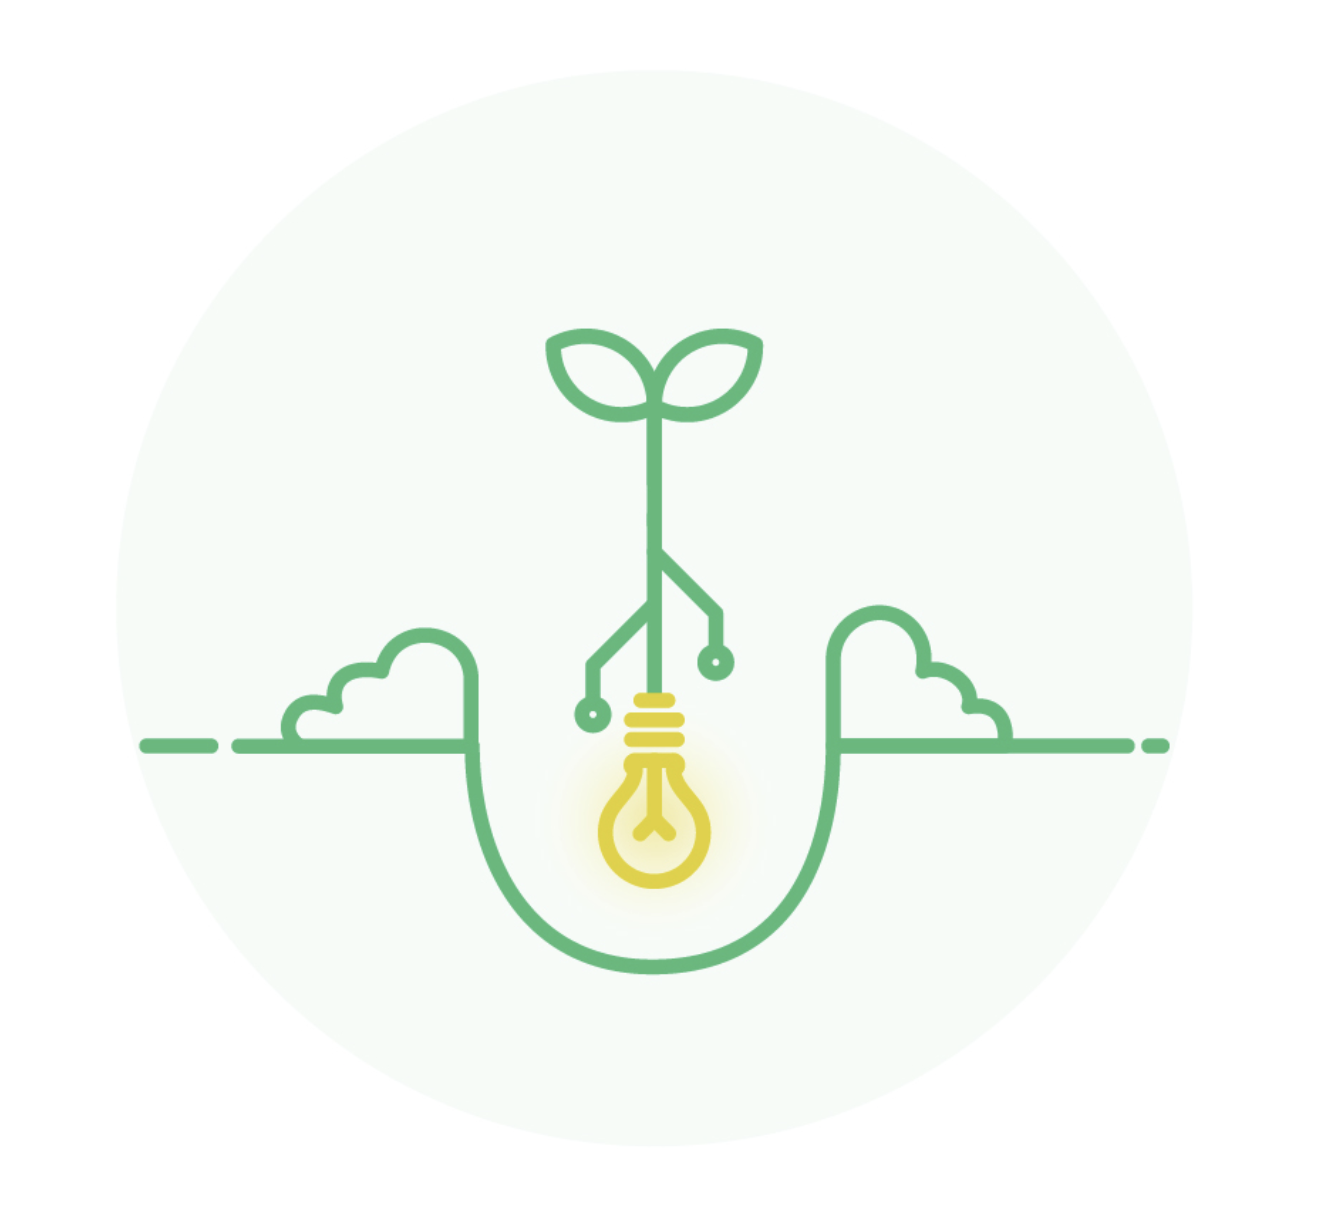
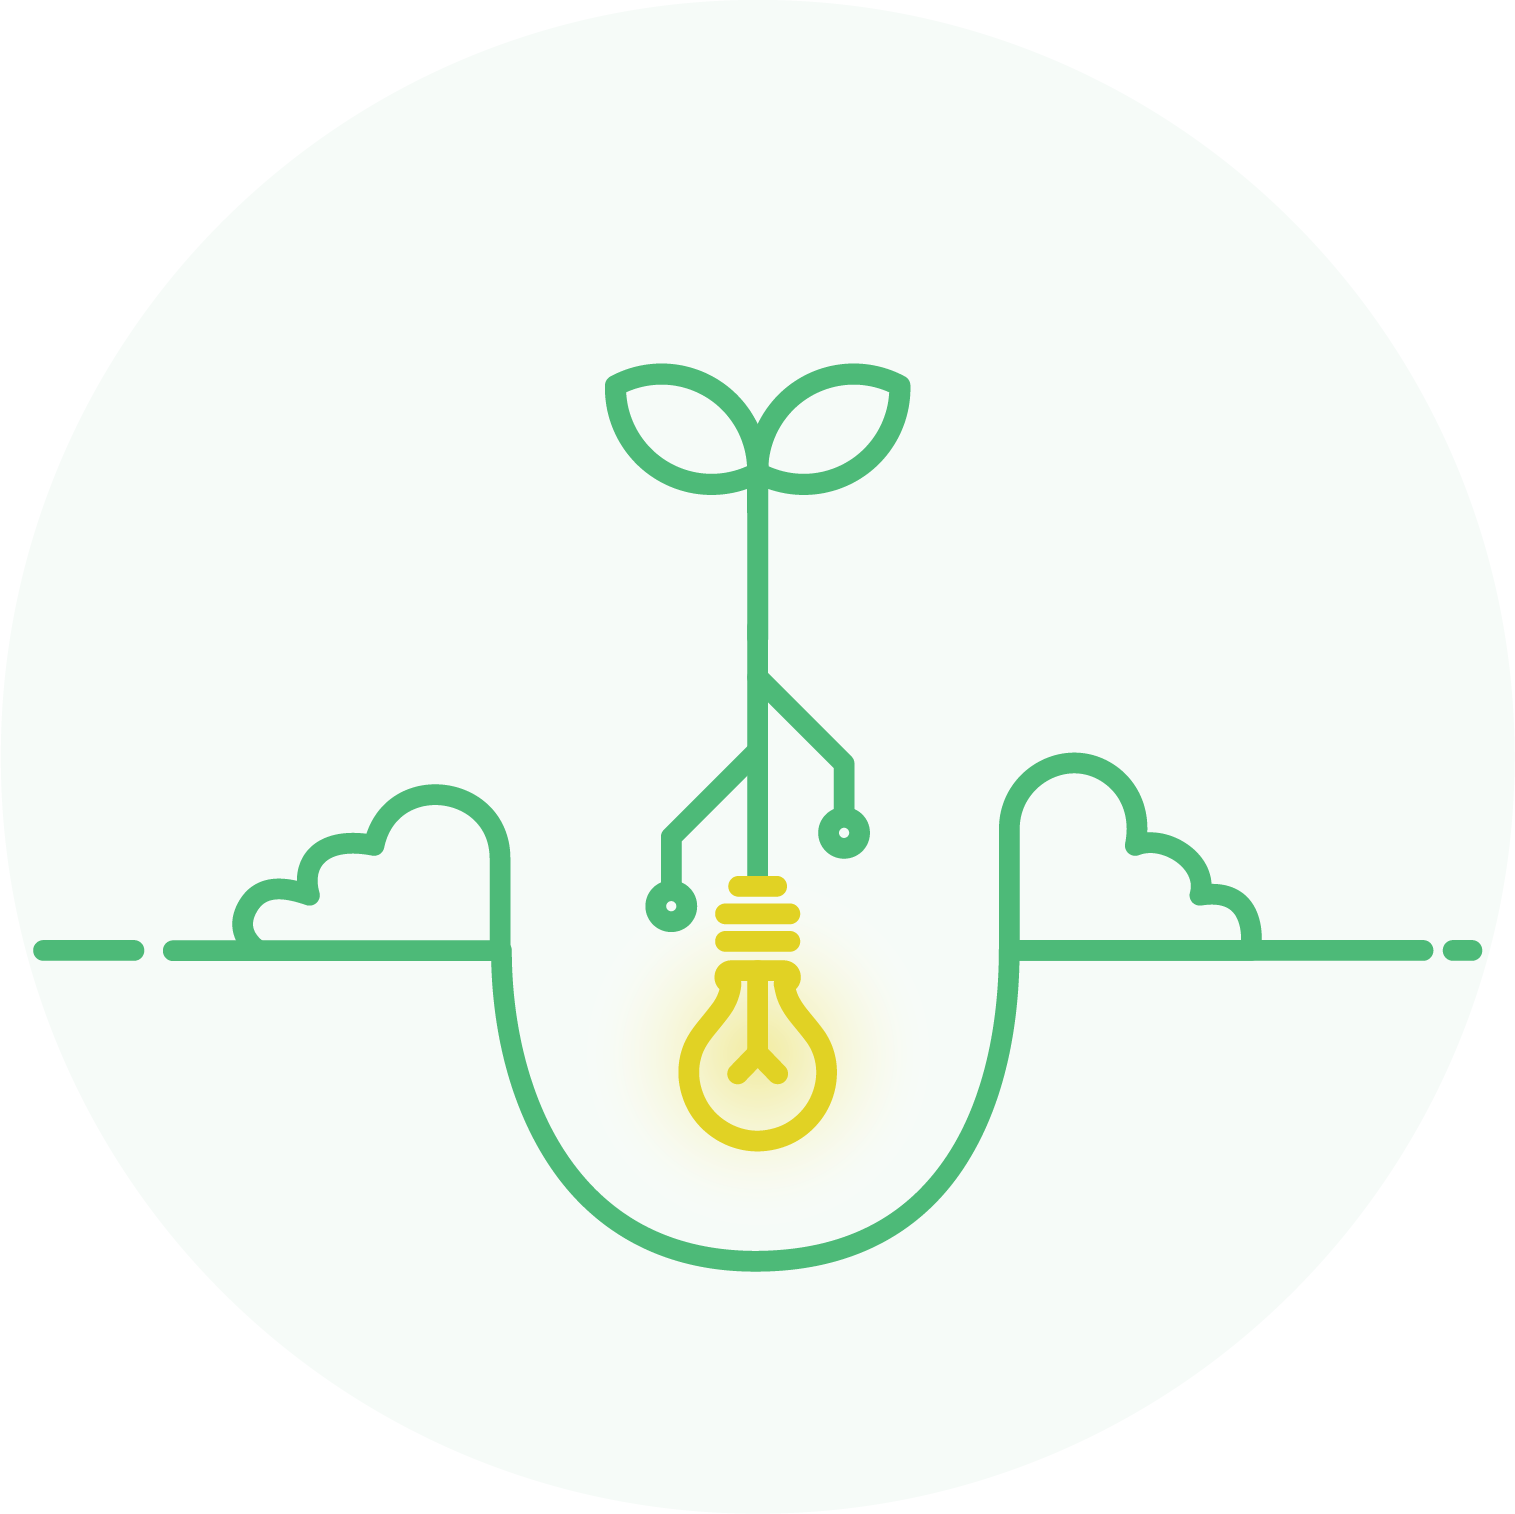
image update

Changed region(s): [[0.0, 0.2177, 0.9835, 0.8396]]

diff --git a/packages/fundstack-seed/src/components/Funds/Funds.scss b/packages/fundstack-seed/src/components/Funds/Funds.scss
@@ -6,8 +6,8 @@
       text-align: center;
       margin-top: 120px;
       img {
-        width: 400px;
-        margin-bottom: 20px;
+        width: 320px;
+        margin-bottom: 25px;
       }
     }
     header {
